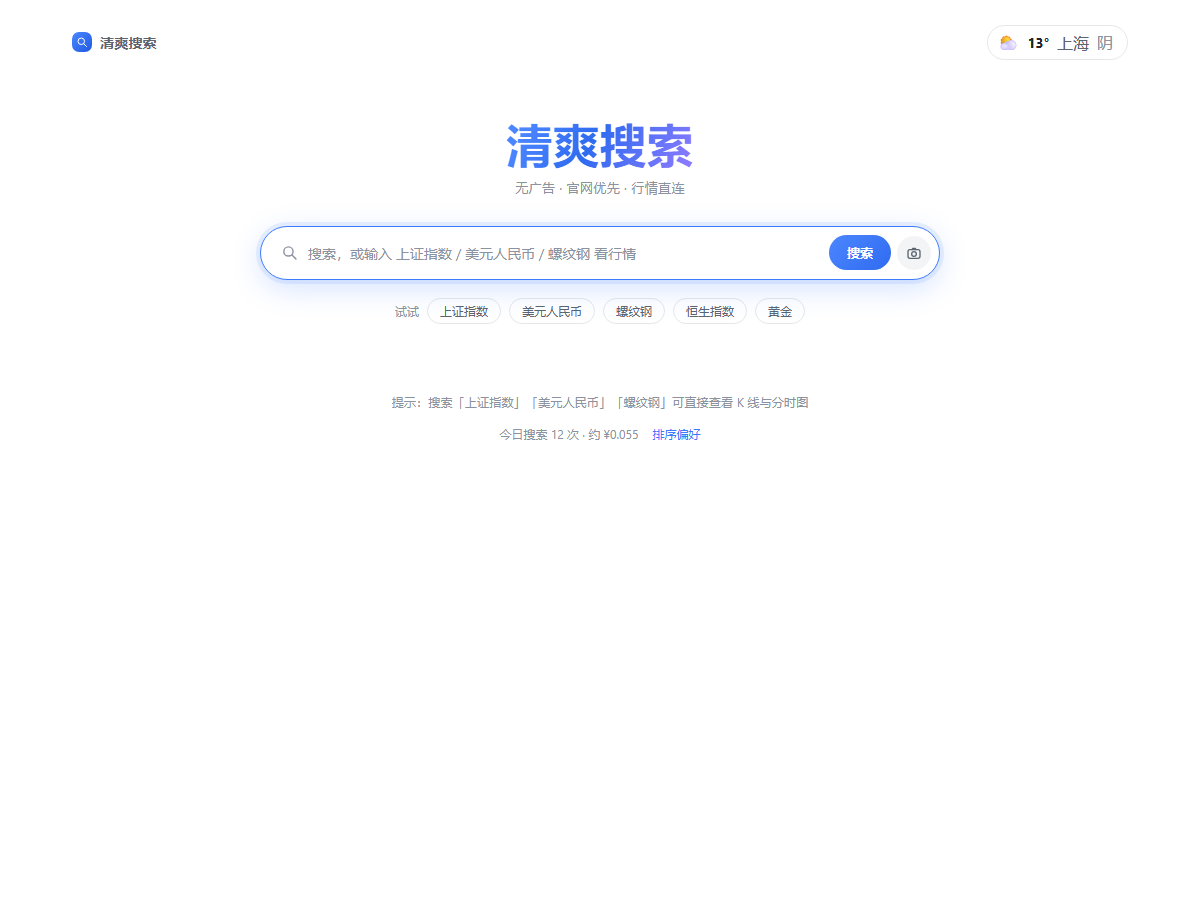
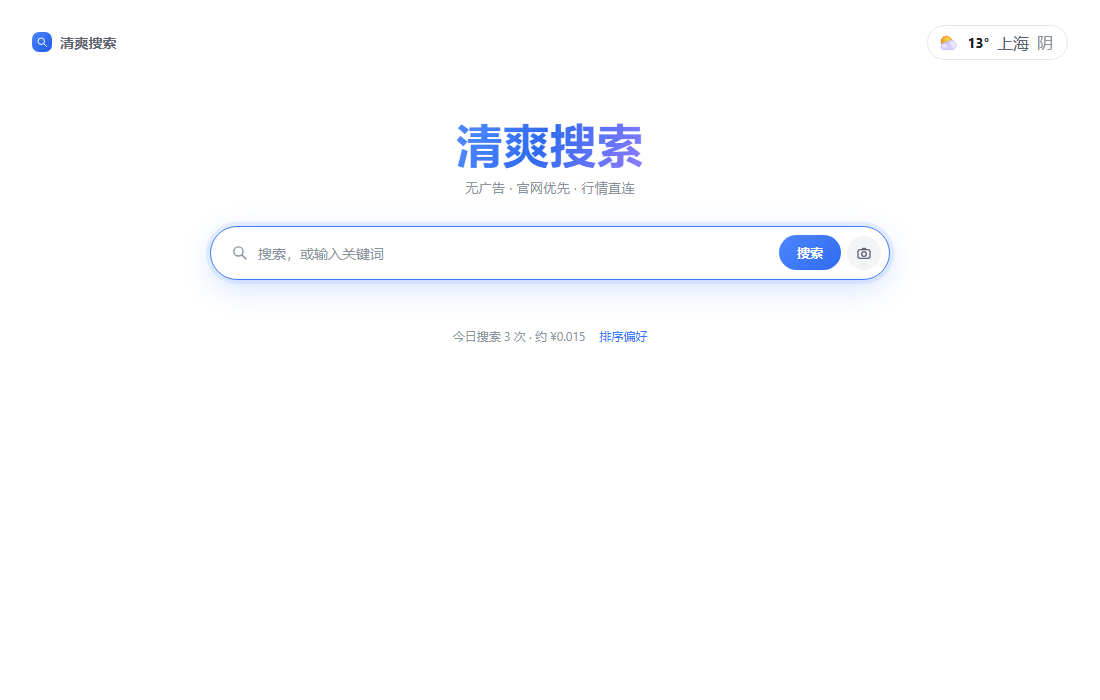
docs: update README for 0.3.2 (official-site-first, special numbers, new screenshots)

Changed region(s): [[0.1855, 0.12, 0.8345, 0.51], [0.8345, 0.03, 0.9582, 0.09], [0.0309, 0.03, 0.1236, 0.09]]

diff --git a/README.md b/README.md
@@ -1,35 +1,38 @@
 # 清爽搜索 · dsh-clean-search
 
-给 [DeepSeek Harness](https://github.com/deepseek-ai) 用的**无广告搜索首页**插件：一个搜索框，搜索结果官网优先、竞价广告降权，附带天气、行情走势与以图搜图。
+给 [DeepSeek Harness](https://github.com/deepseek-ai/deepseek-harness) 用的**无广告搜索首页**插件：搜索结果官网优先、竞价广告降权，并把天气、行情走势、特殊号码与以图搜图收进同一个搜索页。
 
 ![首页](docs/screenshots/home.png)
 
 ## 功能
 
-- **无广告搜索**：走 DeepSeek Search API，结果按「考试官方 > 品牌/权威官网 > 其他」排序；内置广告域名库与营销文案特征，竞价/培训/医疗广告降权并打标
-- **官网优先**：内置常见品牌公司简称映射（菜百 → 菜百首饰官网、iPhone → apple.com…），搜索结果没召回官网时自动补一条官方入口
-- **公司官网置顶 + 行情配合**：搜索有股票行情的公司（A 股 / 港股 / 美股，如「谷歌」「智谱」「贵州茅台」）时，公司官网固定第一条，行情 K 线/分时紧随其后，新闻等其他内容排在后面；A 股公司官网通过东方财富公开公司资料自动反查
-- **行情直连**：搜索股票/外汇/期货/指数或公司简称时，直接出实时报价 + 日 K + 分时（腾讯 / 新浪公开接口）
+- **无广告搜索**：DeepSeek Search API，结果按「考试官方 > 品牌/权威官网 > 其他」排序；内置广告域名库与营销文案特征，竞价/培训/医疗广告降权并打标
+- **公司官网置顶 + 行情配合**：搜索有股票行情的公司（A 股 / 港股 / 美股）时，公司官网固定第一条，行情 K 线/分时紧随其后，新闻等其他内容排在后面；A 股任意公司通过东方财富公开公司资料自动反查官网（如「伊利股份」→ yili.com）
+- **品牌与地区别名**：内置 116 条品牌/服务官网映射（菜百、谷歌、智谱、知网、知乎、12306…），支持地区站点别名（日亚 / 日本亚马逊 → `amazon.co.jp`）
+- **行情直连**：股票 / 外汇 / 期货 / 指数实时报价 + 日 K + 分时；中文公司名自动识别（「腾讯控股」→ 港股 00700）；纯数字查询只认完整 6 位 A 股代码（000002 → 万科 A）
+- **特殊号码**：36 个常用号码（110 / 119 / 120 / 114 / 12306 / 12345 / 12315 / 95588 / 10086 / 顺丰…），支持「纯号码」「号码 + 客服」「品牌 + 客服电话」三种识别；号码卡片带官网或拨打按钮
 - **天气**：Open-Meteo 免 key，含空气质量、穿衣指数、15 日预报、城市切换（本地记忆）
-- **以图搜图**：DeepSeek 联网图搜 + 多引擎兜底链接；大图上传前自动压缩
-- **搜索体验**：搜索历史与联想（↑↓ / Tab）、6 小时结果缓存、URL 规范去重、失败可读提示、今日搜索用量统计
-- **阅读模式**：结果页站内提取正文，不用跳浏览器
-- **排序偏好**：相关性 / 时效 / 官网优先三个滑杆，按需调整
+- **以图搜图**：DeepSeek 联网图搜 + 多引擎兜底链接；大图上传前自动压缩；识别结果按 Markdown 排版、相似图为网格、来源网页为列表
+- **搜索体验**：搜索历史与联想（↑↓ / Tab）、6 小时结果缓存、URL 规范去重、失败可读提示、今日搜索用量统计、阅读模式、排序权重滑杆
 - **深色模式**自适应
 
 ## 截图
 
-| 首页 | 搜索结果 |
+| 首页 | 搜索结果：公司官网 + 行情 |
 |---|---|
-| ![home](docs/screenshots/home.png) | ![search](docs/screenshots/search.png) |
+| ![home](docs/screenshots/home.png) | ![results-company](docs/screenshots/results-company.png) |
 
-| 结果页（官网 + 行情） | 以图搜图 |
+| 特殊号码 | 以图搜图 |
 |---|---|
-| ![results](docs/screenshots/results.png) | ![image](docs/screenshots/image-results.png) |
+| ![results-special](docs/screenshots/results-special.png) | ![image-results](docs/screenshots/image-results.png) |
 
-| 天气详情 | 阅读模式 |
+| 官网优先（品牌） | 天气详情 |
 |---|---|
-| ![weather](docs/screenshots/weather.png) | ![reader](docs/screenshots/reader.png) |
+| ![brand](docs/screenshots/brand.png) | ![weather](docs/screenshots/weather.png) |
+
+| 阅读模式 | |
+|---|---|
+| ![reader](docs/screenshots/reader.png) | |
 
 ## 安装
 
@@ -54,7 +57,7 @@ dsh plugin --profile desktop add link:<path-to-this-repo>
 | `city` | 上海 | 首页默认城市 |
 | `count` | 10 | 默认搜索结果条数 |
 | `cacheSeconds` | 21600 | 搜索结果缓存时长（秒） |
-| `officialOverrides` | `{}` | 自定义「名称 → 官网」映射，如 `{ "知网": "cnki.net" }`，可补充品牌表未收录的站点 |
+| `officialOverrides` | `{}` | 自定义「名称 → 官网」映射，如 `{ "某平台": "example.com" }`，可补充品牌表未收录的站点 |
 
 ## 凭据
 
@@ -71,7 +74,9 @@ dsh plugin --profile desktop add link:<path-to-this-repo>
 
 - 依赖 DeepSeek Search API（按次计费），失败时降级到 DSH 的 `ctx.web` 搜索
 - 行情与天气来自公开接口，可能受网络环境影响
-- 以图搜图受模型速度影响，大图已自动压缩，仍可能偶发超时
+- 美股只有日 K（腾讯接口不提供美股分时）；A 股与港股有分时
+- 纯数字查询只识别完整 6 位 A 股代码；港股 5 位代码请用中文名 / 英文名搜索（如「腾讯控股」）
+- 品牌官网表覆盖常见站点，未收录的站点可用 `officialOverrides` 自行补充
 
 ## License
 
